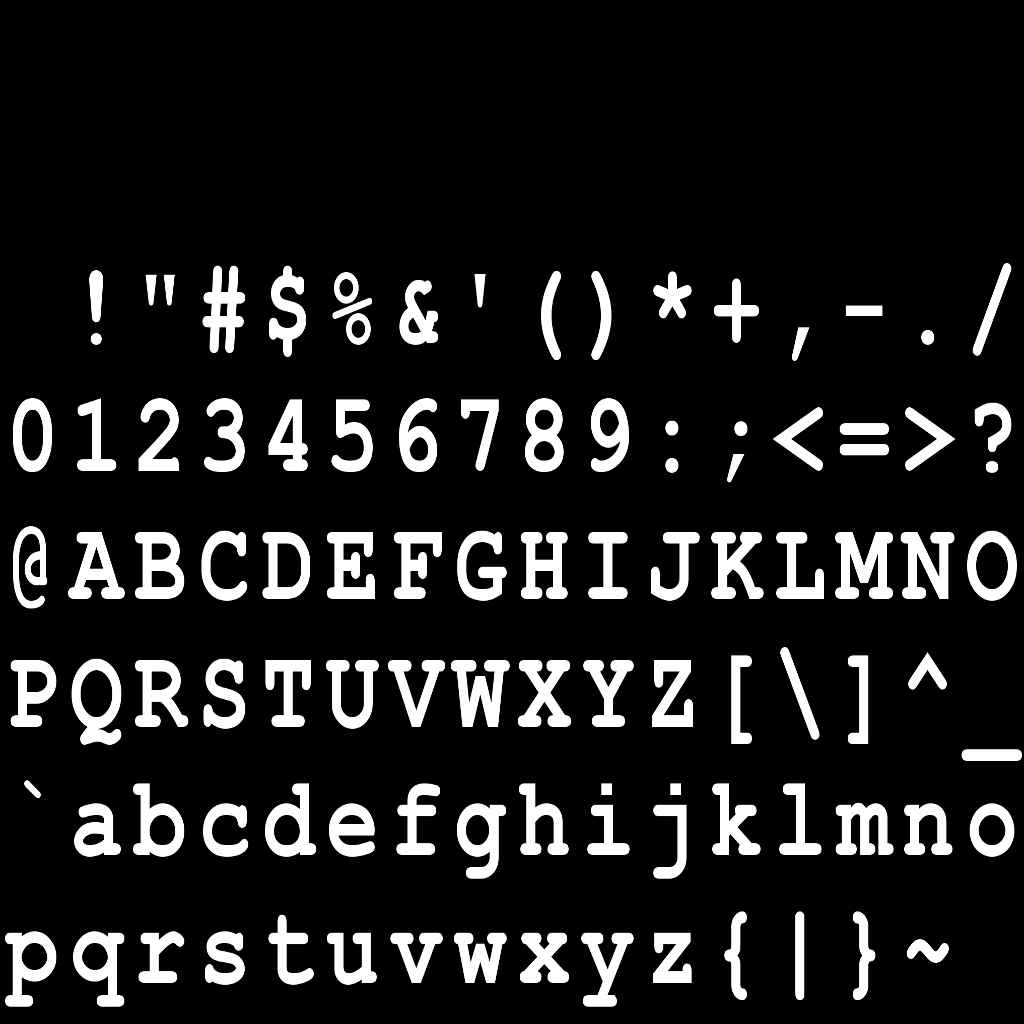
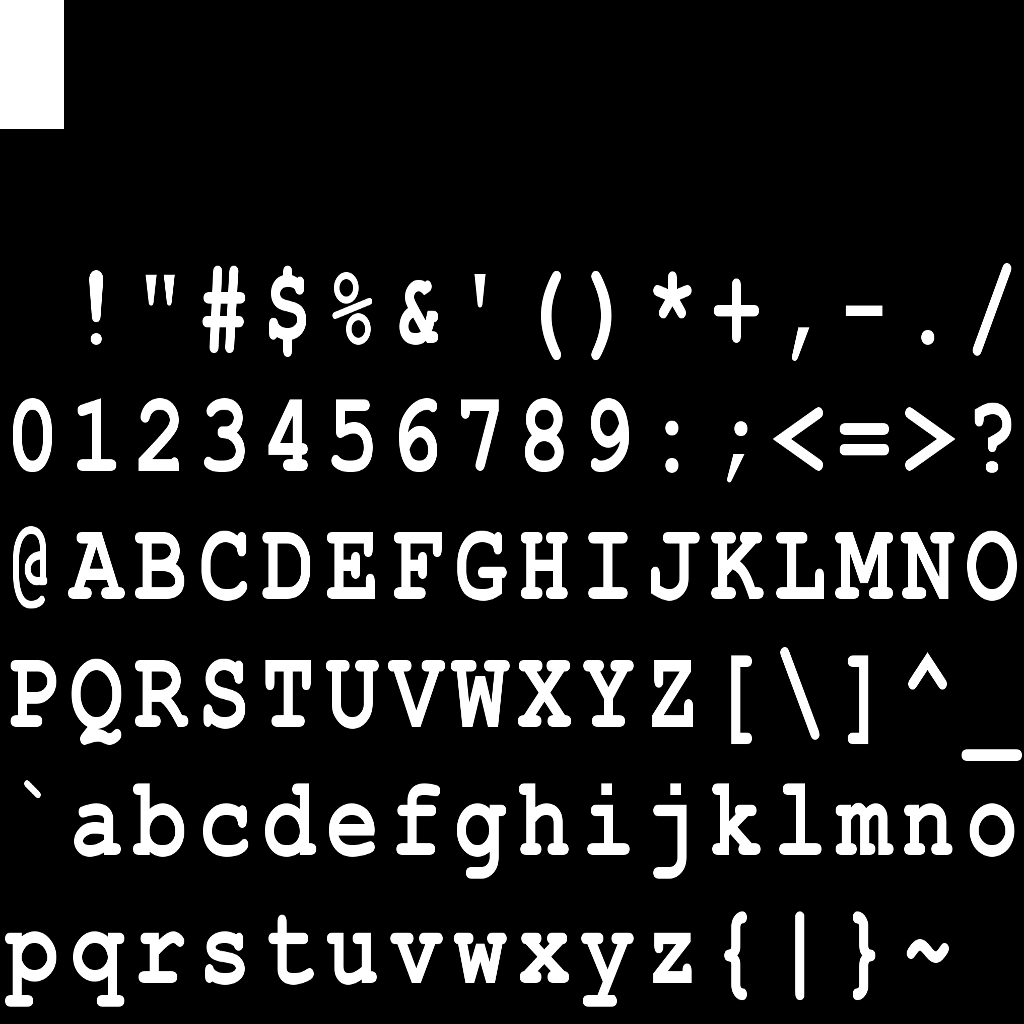
Render using glDrawElements

Changed region(s): [[0.0, 0.0, 0.0625, 0.125]]

diff --git a/app/src/main/java/cz/fmo/RecordingActivity.java b/app/src/main/java/cz/fmo/RecordingActivity.java
@@ -246,16 +246,6 @@ public final class RecordingActivity extends Activity {
         mStatus = Status.STOPPED;
     }
 
-    /**
-     * Called when the encoder output has been moved into the cyclic buffer.
-     */
-    private void onEncoderFlushed() {
-        if (mEncode == null) return;
-        float timeInBuffer = mEncode.getBufferContentsDuration() / 1e6f;
-        mGUI.timeInBuffer = Math.round(timeInBuffer);
-        mGUI.update(GUIUpdate.LABELS);
-    }
-
     public void onForceAutomaticRecording(@SuppressWarnings("UnusedParameters") View view) {
         if (mSaveMovie == null) return;
         if (mStatus != Status.RUNNING) return;
@@ -384,7 +374,6 @@ public final class RecordingActivity extends Activity {
             EncodeThread.Callback, SaveThread.Callback, CameraThread.Callback {
         private static final int LOG = 1;
         private static final int CAMERA_ERROR = 2;
-        private static final int ENCODER_FLUSHED = 3;
         private static final int SAVE_COMPLETED = 4;
         private static final int UPDATE_GUI = 5;
         private final WeakReference<RecordingActivity> mActivity;
@@ -410,8 +399,6 @@ public final class RecordingActivity extends Activity {
 
         @Override
         public void flushCompleted(EncodeThread thread) {
-            if (hasMessages(ENCODER_FLUSHED)) return;
-            sendMessage(obtainMessage(ENCODER_FLUSHED));
         }
 
         @Override
@@ -453,9 +440,6 @@ public final class RecordingActivity extends Activity {
                     activity.mStatus = Status.CAMERA_ERROR;
                     activity.mGUI.update(GUIUpdate.ALL);
                     break;
-                case ENCODER_FLUSHED:
-                    activity.onEncoderFlushed();
-                    break;
                 case SAVE_COMPLETED:
                     activity.onSaveCompleted((File) msg.obj, msg.arg1 == 1);
                     break;
@@ -470,22 +454,16 @@ public final class RecordingActivity extends Activity {
      * A subclass that handles visual elements -- buttons, labels, and suchlike.
      */
     private class GUI implements SurfaceHolder.Callback {
-        int timeInBuffer;
         String logString;
         private SurfaceView mPreview;
         private boolean mPreviewReady = false;
 
-        private int mTimeInBufferLast;
-        private String mTimeInBufferString;
         private TextView mStatusText;
         private String mStatusTextLast;
-        private TextView mLogText;
-        private String mLogTextLast;
 
         private String mErrorCamera;
         private String mErrorPermissionCamera;
         private String mErrorPermissionStorage;
-        private String mBufferIsEmpty;
 
         private Button mManualStoppedButton;
         private Button mManualRunningButton;
@@ -500,15 +478,12 @@ public final class RecordingActivity extends Activity {
             mPreview = (SurfaceView) findViewById(R.id.recording_preview);
             mPreview.getHolder().addCallback(this);
 
-            mStatusText = (TextView) findViewById(R.id.recording_top_text);
-            mStatusTextLast = mStatusText.getText().toString();
-            mLogText = (TextView) findViewById(R.id.recording_bottom_text);
-            mLogTextLast = null;
+            mStatusText = (TextView) findViewById(R.id.recording_status);
+            mStatusTextLast = null;
 
             mErrorCamera = getString(R.string.errorCamera);
             mErrorPermissionCamera = getString(R.string.errorPermissionCamera);
             mErrorPermissionStorage = getString(R.string.errorPermissionStorage);
-            mBufferIsEmpty = getString(R.string.noVideoLength);
 
             mManualStoppedButton = (Button) findViewById(R.id.recording_manual_stopped);
             mManualRunningButton = (Button) findViewById(R.id.recording_manual_running);
@@ -530,10 +505,9 @@ public final class RecordingActivity extends Activity {
             if (mStatus == Status.STOPPED) return;
             if (u == GUIUpdate.ALL || u == GUIUpdate.BUTTONS) updateRecordingButtons();
             if (u == GUIUpdate.ALL || u == GUIUpdate.LABELS) updateStatusString();
-            if (u == GUIUpdate.ALL || u == GUIUpdate.LABELS) updateLogString();
         }
 
-        private void updateLogString() {
+        private void updateStatusString() {
             String text;
             if (mStatus == Status.CAMERA_ERROR) {
                 text = mErrorCamera;
@@ -543,29 +517,6 @@ public final class RecordingActivity extends Activity {
                 text = mErrorPermissionStorage;
             } else {
                 text = logString;
-            }
-
-            //noinspection StringEquality
-            if (mLogTextLast != text) {
-                mLogText.setText(text);
-                mLogTextLast = text;
-            }
-        }
-
-        private void updateStatusString() {
-            // update mTimeInBufferString
-            if (timeInBuffer == 0) {
-                mTimeInBufferString = mBufferIsEmpty;
-            } else if (timeInBuffer != mTimeInBufferLast) {
-                mTimeInBufferLast = timeInBuffer;
-                mTimeInBufferString = getString(R.string.videoLength, timeInBuffer);
-            }
-
-            String text;
-            if (mStatus == Status.RUNNING) {
-                text = mTimeInBufferString;
-            } else {
-                text = "";
             }
 
             //noinspection StringEquality

diff --git a/app/src/main/java/cz/fmo/graphics/FontRenderer.java b/app/src/main/java/cz/fmo/graphics/FontRenderer.java
@@ -14,6 +14,8 @@ import cz.fmo.util.Color;
  * Special-purpose renderer for drawing text.
  */
 public class FontRenderer {
+    public static final float CHAR_WIDTH = 0.639f;
+    public static final float CHAR_STEP_X = 0.8f * CHAR_WIDTH;
     private static final int MAX_CHARACTERS = 128;
     private static final int TEXTURE_TYPE = GLES20.GL_TEXTURE_2D;
     private static final String VERTEX_SOURCE = "" +
@@ -35,7 +37,7 @@ public class FontRenderer {
             "uniform sampler2D tex;\n" +
             "void main() {\n" +
             "    vec4 color3 = color2;\n" +
-            "    color3.a = texture2D(tex, uv2).r;\n" +
+            "    color3.a *= texture2D(tex, uv2).r;\n" +
             "    gl_FragColor = color3;\n" +
             "}\n";
     private final int mProgramId;
@@ -104,7 +106,7 @@ public class FontRenderer {
         mBuffers.uv.clear();
         mBuffers.color.clear();
         mBuffers.idx.clear();
-        mBuffers.numVertices = 0;
+        mBuffers.numCharacters = 0;
     }
 
     /**
@@ -116,10 +118,10 @@ public class FontRenderer {
      * @param h     text height
      * @param color text color, alpha channel will be ignored
      */
-    public void add(String str, float x, float y, float h, Color.RGBA color) {
+    public void addString(String str, float x, float y, float h, Color.RGBA color) {
         int len = str.length();
-        float w = 0.639f * h;
-        float ws = 0.8f * w;
+        float w = CHAR_WIDTH * h;
+        float ws = CHAR_STEP_X * h;
         float topPos = y - 0.5f * h;
         float bottomPos = y + 0.5f * h;
 
@@ -134,12 +136,19 @@ public class FontRenderer {
             float topUv = (((float) vi) / 8.f);
             float bottomUv = (((float) (vi + 1)) / 8.f);
             addVertex(leftPos, topPos, leftUv, topUv, color);
-            addVertex(leftPos, topPos, leftUv, topUv, color);
             addVertex(leftPos, bottomPos, leftUv, bottomUv, color);
             addVertex(rightPos, topPos, rightUv, topUv, color);
             addVertex(rightPos, bottomPos, rightUv, bottomUv, color);
-            addVertex(rightPos, bottomPos, rightUv, bottomUv, color);
+            addQuad();
         }
+    }
+
+    public void addRectangle(float x, float y, float w, float h, Color.RGBA color) {
+        addVertex(x, y, 0.f, 0.f, color);
+        addVertex(x, y + h, 0.f, 0.125f, color);
+        addVertex(x + w, y, 0.0625f, 0.f, color);
+        addVertex(x + w, y + h, 0.0625f, 0.125f, color);
+        addQuad();
     }
 
     private void addVertex(float x, float y, float u, float v, Color.RGBA color) {
@@ -152,7 +161,17 @@ public class FontRenderer {
         mBuffers.color.put(color.rgba[1]);
         mBuffers.color.put(color.rgba[2]);
         mBuffers.color.put(color.rgba[3]);
-        mBuffers.numVertices++;
+    }
+
+    private void addQuad() {
+        int base = 4 * mBuffers.numCharacters;
+        mBuffers.idx.put(base);
+        mBuffers.idx.put(base);
+        mBuffers.idx.put(base + 1);
+        mBuffers.idx.put(base + 2);
+        mBuffers.idx.put(base + 3);
+        mBuffers.idx.put(base + 3);
+        mBuffers.numCharacters++;
     }
 
     /**
@@ -174,14 +193,17 @@ public class FontRenderer {
         mBuffers.color.flip();
         mBuffers.idx.flip();
 
-        if (mBuffers.numVertices * 2 != mBuffers.pos.limit()) {
+        if (mBuffers.numCharacters * 8 != mBuffers.pos.limit()) {
             throw new RuntimeException("Bad position buffer");
         }
-        if (mBuffers.numVertices * 2 != mBuffers.uv.limit()) {
+        if (mBuffers.numCharacters * 8 != mBuffers.uv.limit()) {
             throw new RuntimeException("Bad UV buffer");
         }
-        if (mBuffers.numVertices * 4 != mBuffers.color.limit()) {
+        if (mBuffers.numCharacters * 16 != mBuffers.color.limit()) {
             throw new RuntimeException("Bad color buffer");
+        }
+        if (mBuffers.numCharacters * 6 != mBuffers.idx.limit()) {
+            throw new RuntimeException("Bad index buffer");
         }
 
         GLES20.glUseProgram(mProgramId);
@@ -197,7 +219,7 @@ public class FontRenderer {
         GLES20.glActiveTexture(GLES20.GL_TEXTURE0);
         GLES20.glBindTexture(TEXTURE_TYPE, mTextureId);
         GLES20.glUniform1i(mLoc_tex, 0);
-        GLES20.glDrawArrays(GLES20.GL_TRIANGLE_STRIP, 0, mBuffers.numVertices);
+        GLES20.glDrawElements(GLES20.GL_TRIANGLE_STRIP, 6 * mBuffers.numCharacters, GLES20.GL_UNSIGNED_INT, mBuffers.idx);
         GLES20.glDisable(GLES20.GL_BLEND);
         GLES20.glUseProgram(0);
         GL.checkError();
@@ -205,10 +227,10 @@ public class FontRenderer {
 
     public static class Buffers {
         public final float[] posMat = GL.makeIdentity();
-        public final FloatBuffer pos = GL.makeWritableFloatBuffer(12 * MAX_CHARACTERS);
-        public final FloatBuffer uv = GL.makeWritableFloatBuffer(12 * MAX_CHARACTERS);
-        public final FloatBuffer color = GL.makeWritableFloatBuffer(24 * MAX_CHARACTERS);
+        public final FloatBuffer pos = GL.makeWritableFloatBuffer(8 * MAX_CHARACTERS);
+        public final FloatBuffer uv = GL.makeWritableFloatBuffer(8 * MAX_CHARACTERS);
+        public final FloatBuffer color = GL.makeWritableFloatBuffer(16 * MAX_CHARACTERS);
         public final IntBuffer idx = GL.makeWritableIntBuffer(6 * MAX_CHARACTERS);
-        public int numVertices = 0;
+        public int numCharacters = 0;
     }
 }

diff --git a/app/src/main/java/cz/fmo/camera/PreviewCameraTarget.java b/app/src/main/java/cz/fmo/camera/PreviewCameraTarget.java
@@ -50,11 +50,17 @@ public class PreviewCameraTarget extends CameraThread.Target {
         FontRenderer fontRender = thread.getFontRenderer();
         fontRender.clear();
         Color.RGBA color = new Color.RGBA();
+        float em = ((float) mHeight) / 20.f;
+        color.rgba[0] = 0.f;
+        color.rgba[1] = 0.f;
+        color.rgba[2] = 0.f;
+        color.rgba[3] = 0.5f;
+        fontRender.addRectangle(0, mHeight / 2 - 4.5f * em, 6 * em, 9 * em, color);
         color.rgba[0] = 1.f;
-        color.rgba[1] = 1.f;
-        color.rgba[2] = 1.f;
+        color.rgba[1] = 0.f;
+        color.rgba[2] = 0.f;
         color.rgba[3] = 1.f;
-        fontRender.add("Hello, world!", 200.f, 200.f, 40.f, color);
+        fontRender.addString("225 px/fr", 0.5f * em, mHeight / 2, em, color);
         fontRender.drawText(mWidth, mHeight);
     }
 }
